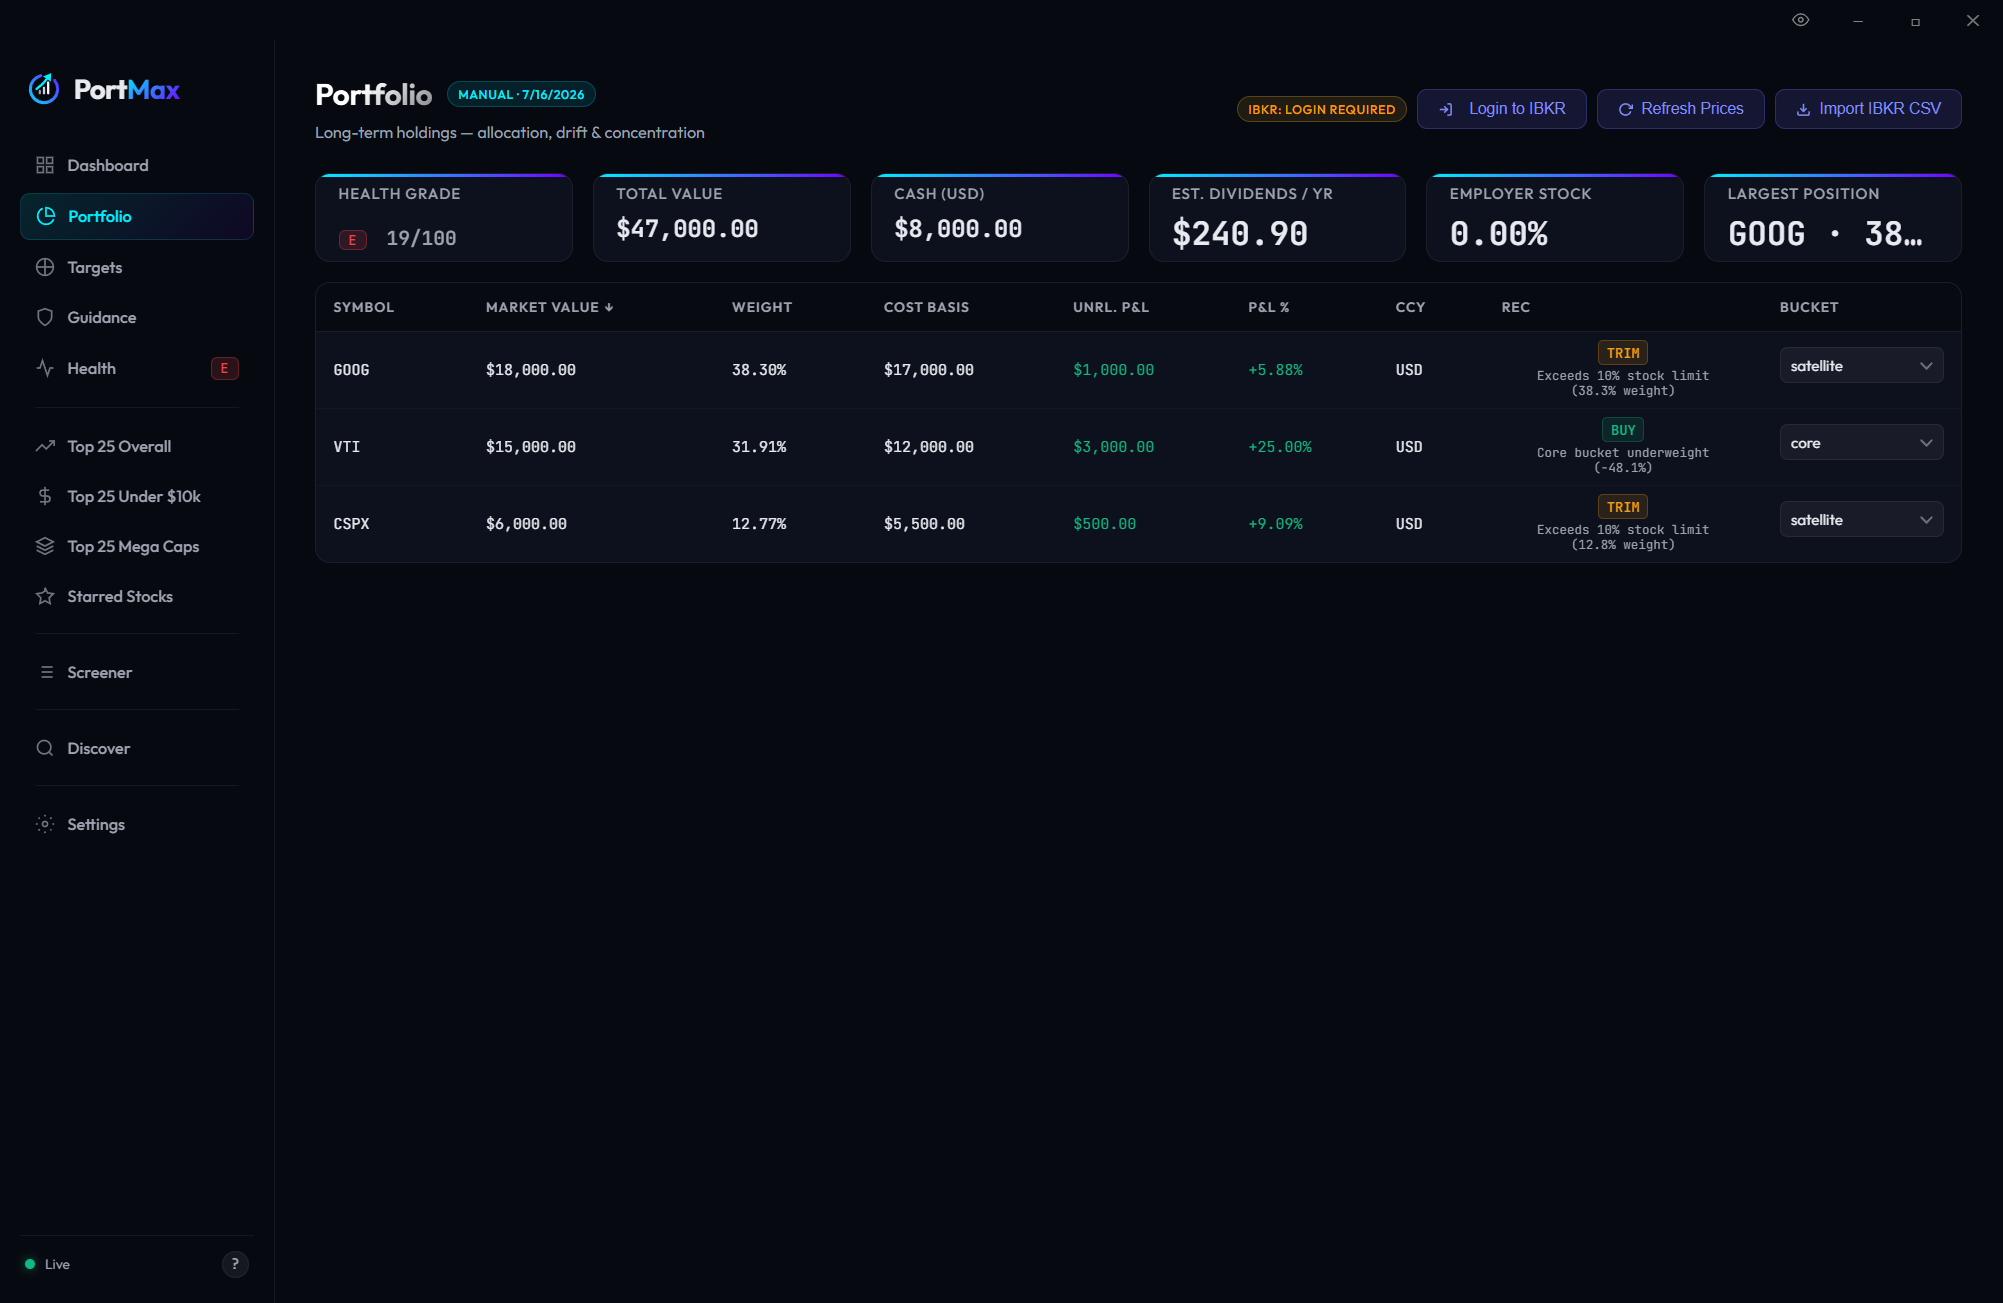
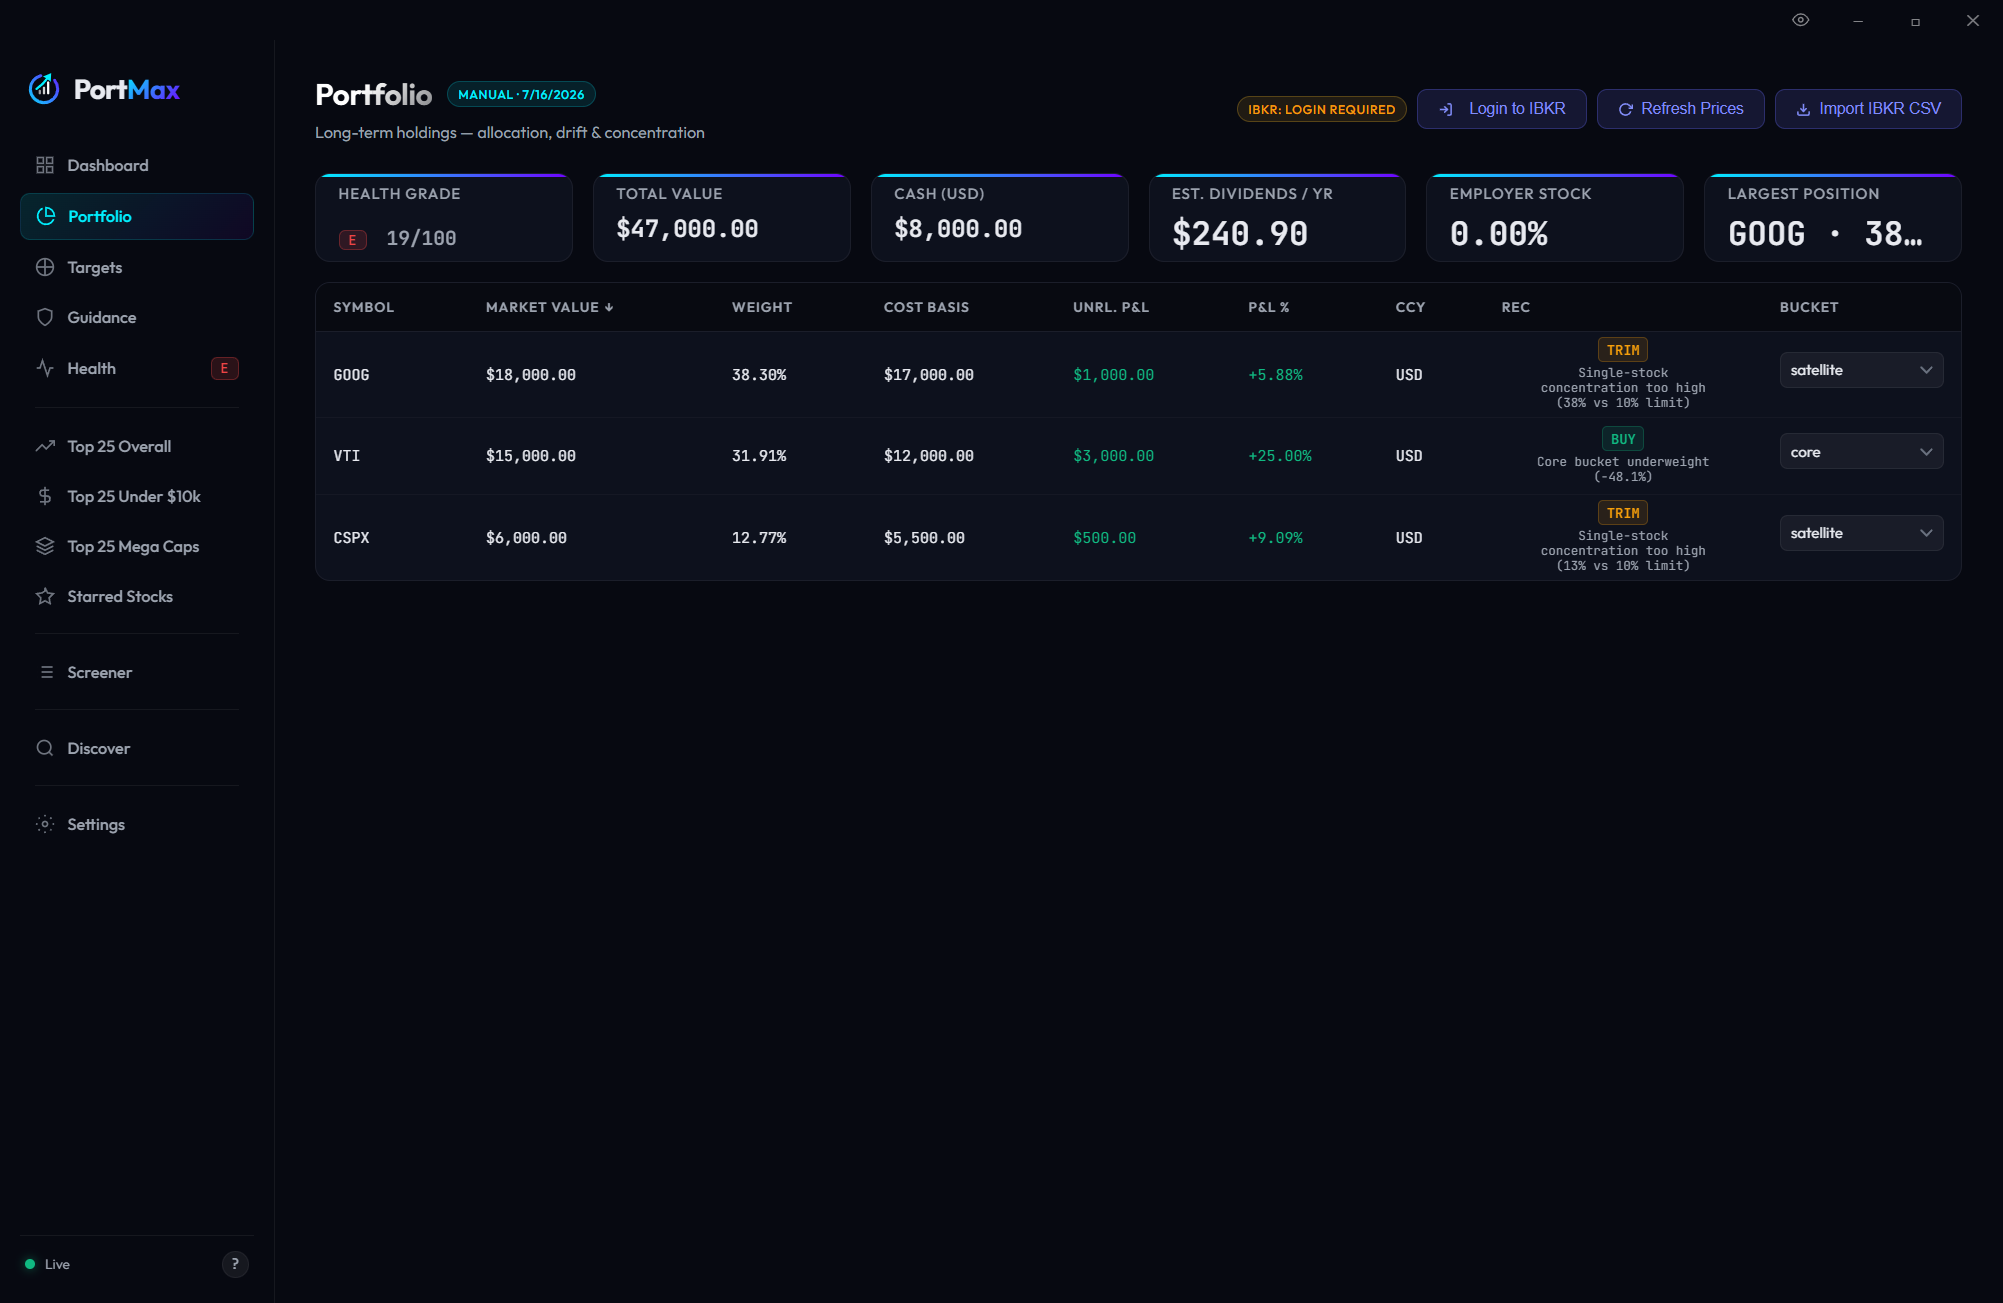
feat(guidance): implement core/satellite strategy and stock limits
Adds logic to distinguish between funds and stocks, enforcing a 10%
concentration limit on individual holdings. Also flags stocks in the
'core' bucket and adds documentation for the core/satellite strategy.

diff --git a/lib/guidance.js b/lib/guidance.js
@@ -464,10 +464,20 @@ function generatePortfolioGuidance(holdings = [], cash = 0, targets = [], settin
   return items;
 }
 
+const PF_CORE_ETFS = new Set([
+  'VTI', 'VOO', 'SPY', 'IVV', 'ITOT', 'SCHB',            // US total market / S&P 500
+  'VT', 'ACWI',                                          // global
+  'VXUS', 'VEA', 'VWO', 'IEFA', 'IEMG', 'EFA', 'EEM',    // ex-US / intl / EM
+  'IWDA', 'IWDC', 'VUSA', 'VWRL', 'VWCE', 'IUSC',        // UCITS equivalents
+]);
+
 function calculateHoldingRecommendation(holding, quote, watchlistInfo, bucketDrifts = [], tolerancePct = 5, totalPortfolioValue = 0) {
   if (!holding || holding.assetCategory === 'OPT' || (holding.symbol && holding.symbol.length > 8)) {
     return { type: '—', reason: '' };
   }
+
+  const quoteType = quote?.quoteType?.toUpperCase();
+  const isFund = quoteType === 'ETF' || quoteType === 'MUTUALFUND' || PF_CORE_ETFS.has(holding.symbol.toUpperCase());
 
   const bucket = holding.bucket || 'unassigned';
   const driftRow = (bucketDrifts || []).find(d => d.bucket === bucket);
@@ -475,6 +485,17 @@ function calculateHoldingRecommendation(holding, quote, watchlistInfo, bucketDri
   const rebalance = driftRow ? driftRow.rebalance : false;
 
   const holdingPct = totalPortfolioValue > 0 ? ((holding.marketValue || 0) / totalPortfolioValue) * 100 : 0;
+
+  // 1. Global concentration check: individual stock exceeding 10% weight is ALWAYS a Trim
+  if (!isFund && holdingPct > 10) {
+    return { type: 'Trim', reason: `Single-stock concentration too high (${holdingPct.toFixed(0)}% vs 10% limit)` };
+  }
+
+  // 2. Educational check: individual stock placed in Core bucket
+  if (bucket === 'core' && !isFund) {
+    return { type: 'Trim', reason: `Individual stock in Core bucket (move to Satellite to reduce risk)` };
+  }
+
   const isCore = bucket === 'core';
 
   if (isCore) {
@@ -488,9 +509,6 @@ function calculateHoldingRecommendation(holding, quote, watchlistInfo, bucketDri
   } else {
     // Satellite / Unassigned stock
     // Trim rules:
-    if (holdingPct > 10) {
-      return { type: 'Trim', reason: `Exceeds 10% stock limit (${holdingPct.toFixed(1)}% weight)` };
-    }
     if (watchlistInfo && (['D', 'E', 'F'].includes(watchlistInfo.grade) || (watchlistInfo.score != null && watchlistInfo.score < 20))) {
       const scoreStr = watchlistInfo.score != null ? ` (Score: ${watchlistInfo.score})` : '';
       return { type: 'Trim', reason: `Low watchlist rating: Grade ${watchlistInfo.grade}${scoreStr}` };

diff --git a/src/index.html b/src/index.html
@@ -1090,6 +1090,16 @@
           <p><strong>Price Update</strong> — Lightweight update of current stock prices only. IV and volatility are not recalculated.</p>
         </div>
 
+        <div class="help-section">
+          <h3>Core vs. Satellite Strategy</h3>
+          <p>This is a popular portfolio structuring method that balances safety with growth/income opportunities:</p>
+          <ul class="help-list">
+            <li><strong>Core (The Foundation)</strong> — Broad, highly diversified, low-cost index ETFs (like S&amp;P 500 or Total World funds). This forms the stable bedrock of your wealth and should represent the majority of your assets.</li>
+            <li><strong>Satellite (The Opportunities)</strong> — Individual stocks, sector-specific funds, or tactical option-selling candidates. These carry higher risk/reward and are used to try and beat the market average or generate active income.</li>
+          </ul>
+          <p>By dividing your portfolio this way, you ensure that you don't take excessive single-stock concentration risks while still having room to capture high-potential market opportunities.</p>
+        </div>
+
       </div>
     </div>
   </div>

diff --git a/test/guidance.test.js b/test/guidance.test.js
@@ -276,7 +276,13 @@ console.log('Running test/guidance.test.js...');
   holding = { symbol: 'AAPL', bucket: 'satellite', marketValue: 2000 };
   res = calculateHoldingRecommendation(holding, null, null, [], 5, 10000);
   assert.strictEqual(res.type, 'Trim');
-  assert.ok(res.reason.includes('Exceeds 10%'));
+  assert.ok(res.reason.includes('concentration'));
+
+  // Individual stock in Core bucket should get "Trim" reclassification warning
+  holding = { symbol: 'AAPL', bucket: 'core', marketValue: 500 };
+  res = calculateHoldingRecommendation(holding, null, null, [], 5, 10000);
+  assert.strictEqual(res.type, 'Trim');
+  assert.ok(res.reason.includes('Core bucket'));
 
   // Satellite stock with poor screener grade should get "Trim"
   holding = { symbol: 'AAPL', bucket: 'satellite', marketValue: 500 };
